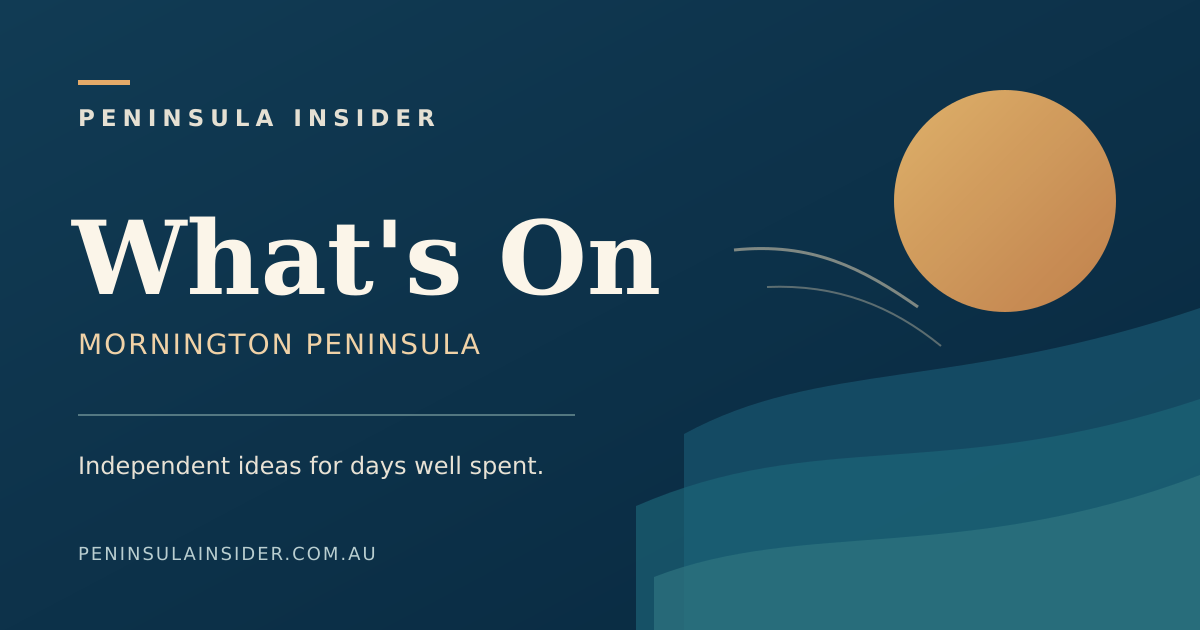
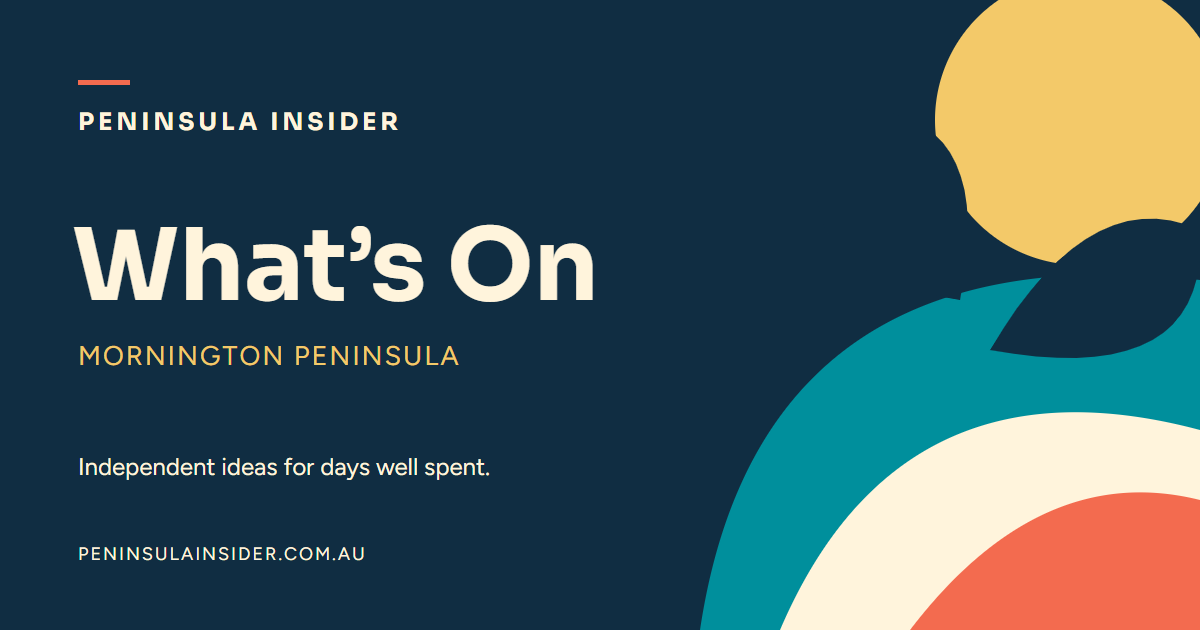
Extend Coastal Punch illustrations across editorial and event media (#645)

diff --git a/docs/COASTAL-PUNCH-ILLUSTRATIONS.md b/docs/COASTAL-PUNCH-ILLUSTRATIONS.md
@@ -1,0 +1,33 @@
+# Coastal Punch illustration language
+
+Approved by James for website rollout on 9 October 2026. Keep the existing site structure, typography, navigation and factual venue photography.
+
+## Palette and form
+
+Deep navy `#102D42`, sea teal `#008F9C`, warm ivory `#FFF4DC`, coral `#F36B4F`, sunshine yellow `#F3C969`. Use broad areas of ivory and teal, navy for graphic shadows, and coral/yellow as concentrated accents. One dominant silhouette; gently exaggerated objects; sweeping shadows; elliptical eucalyptus leaves; broad stripes and scalloped canopies. Simplify rather than add texture or small detail. No embedded lettering or logos.
+
+Create each artwork separately for its placement. Card and article masters are 3:2, with the main subject safe within a central 16:9 crop. Homepage art has its own wide composition and mobile crop. Supply alt text, conceptual captions and recorded rights metadata. Never imply an invented scene is a photograph of the named venue, event or road.
+
+## Scoring rubric (100 points)
+
+| Criterion | Points | Acceptance question |
+| --- | ---: | --- |
+| Recognition | 20 | Does it read as Peninsula Insider without a logo? |
+| Simplification | 20 | Is the main idea legible at thumbnail size, with incidental detail removed? |
+| Distinctive exaggeration | 15 | Does a memorable silhouette create emphasis without becoming surreal? |
+| Fresh palette | 15 | Are ivory/teal airy, with controlled coral/yellow punch and strong navy contrast? |
+| Placement and crop | 15 | Does the artwork work in its actual desktop/mobile dimensions? |
+| Subject and locality honesty | 10 | Does it match the topic without inventing venue details or geography? |
+| Production readiness | 5 | Are optimized media, alt text, credit, rights and social formats complete? |
+
+Target: 99/100. A target is not an achieved score. Automated tests cannot certify aesthetic quality. These first approved wider-rollout illustrations retain some shaded surfaces and landscape detail; simplification remains the main improvement for future iterations. Factual, rights, crop or accessibility failures block release irrespective of score.
+
+## Reusable generation direction
+
+Create ONE standalone editorial illustration in the Coastal Punch house style for [subject], with [placement/aspect ratio]. Use only the five palette colours above. Strong simplified graphic shapes, one gently exaggerated hero object, bold navy shadows, airy ivory space and concentrated coral/yellow accents. No photorealism, lettering, logos, fine texture or ornamental detail. Maintain a central crop-safe subject. The scene is conceptual, not a representation of a specific venue or precise geographic location. Do not generate a collage.
+
+## Provenance and scope
+
+Seven independent AI-assisted originals: gin botanicals, yoga equipment, market produce, wrestling ring, breakfast, weekend planning and first visit. Original PNG masters remain in the Codex generated-image directory; optimized website WebP assets and the source inventory are recorded in `reports/coastal-punch-wide-assets-2026-10-09.json`.
+
+The card fallback, shared event placeholder and What's On social graphic use authored SVG geometry and separately typeset text. They decorate existing media slots without simulating missing venue photographs. Keep the original artwork available for rollback. Content dates, cancellation states and editorial wording are unchanged.

diff --git a/next/src/content/articles/first-time-peninsula.md b/next/src/content/articles/first-time-peninsula.md
@@ -5,24 +5,21 @@ author: "editorial"
 houseByline: true
 publishedAt: 2026-04-10
 heroImage:
-  src: "/images/visit-victoria/vv-160358-montalto.webp"
-  alt: "A patinated metal sculpture of a figure stands on the lawn in front of the Montalto restaurant and its white umbrellas"
-  credit: "Two Palms Australia, courtesy of Visit Victoria"
-  license: "visit-victoria"
-  caption: "Montalto Vineyard & Olive Grove, Red Hill, Mornington Peninsula."
-  depicts: "Montalto"
+  src: "/images/generated/coastal-punch-first-visit.webp"
+  alt: "Conceptual coral car on a curving coastal road beside an abstract bay."
+  credit: "Illustration: Peninsula Insider"
+  license: "other-licensed"
+  caption: "AI-assisted editorial illustration. A first Peninsula visit; not a depiction of a specific road or location."
+  depicts: "Conceptual coral car on a curving coastal road beside an abstract bay."
   depictionStatus: "illustrative"
-  creator: "Two Palms Australia"
-  sourceUrl: "Victoria Content Hub asset 160358, downloaded 2026-09-28"
-  permission: "Licensed at download (2026-09-28) under the Victoria Content Hub Terms and Conditions (last modified 21 Sep 2026)."
-  permittedUses:
-    - "website"
-    - "social"
-  rightsHolder: "Visit Victoria"
-  rightsEstablishedOn: "2026-09-29"
+  creator: "Peninsula Insider, AI-assisted"
+  permission: "Original AI-assisted artwork created for Peninsula Insider; website rollout approved by James on 2026-10-09."
+  permittedUses: ["website"]
+  rightsHolder: "Peninsula Insider"
+  rightsEstablishedOn: "2026-10-09"
   rightsStatus: "recorded"
-  decorative: false
   provenanceReview: "verified"
+  decorative: false
 format: "service"
 tags: ["first-timers", "guide", "overview", "planning", "explore", "weekend"]
 relatedVenues: ["montalto", "ten-minutes-by-tractor", "merricks-general-wine-store", "commonfolk-coffee", "flinders-hotel", "hotel-sorrento", "red-hill-brewery", "alba-thermal-springs", "peninsula-hot-springs", "polperro", "lindenderry", "jackalope", "flinders-sourdough", "red-hill-cheese", "sorrento-hotel", "portsea-hotel", "main-ridge-dairy"]

diff --git a/next/src/content/articles/how-to-plan-a-peninsula-weekend.md b/next/src/content/articles/how-to-plan-a-peninsula-weekend.md
@@ -5,13 +5,21 @@ author: "editorial"
 houseByline: true
 publishedAt: 2026-04-10
 heroImage:
-  src: "/images/sourced/article-orientation-drive-01.webp"
-  alt: ""
-  depicts: "a bank of cumulus cloud over the sea, in black and white"
+  src: "/images/generated/coastal-punch-planning.webp"
+  alt: "Conceptual travellers considering an unlabelled folded map beside an abstract bay."
+  credit: "Illustration: Peninsula Insider"
+  license: "other-licensed"
+  caption: "AI-assisted editorial illustration. Weekend planning; the abstract map is not geographic or navigational."
+  depicts: "Conceptual travellers considering an unlabelled folded map beside an abstract bay."
   depictionStatus: "illustrative"
-  decorative: true
-  credit: "Peninsula Insider"
-  license: "tmp-unsplash"
+  creator: "Peninsula Insider, AI-assisted"
+  permission: "Original AI-assisted artwork created for Peninsula Insider; website rollout approved by James on 2026-10-09."
+  permittedUses: ["website"]
+  rightsHolder: "Peninsula Insider"
+  rightsEstablishedOn: "2026-10-09"
+  rightsStatus: "recorded"
+  provenanceReview: "verified"
+  decorative: false
 format: "service"
 tags: ["planning", "weekend", "guide", "accommodation", "booking", "first-timers", "couples", "family", "groups", "all-year"]
 relatedVenues: ["ten-minutes-by-tractor", "montalto", "tedesca-osteria", "merricks-general-wine-store", "lindenderry", "jackalope", "polperro-villas", "crittenden-villas", "hotel-sorrento", "flinders-hotel", "pt-leo-estate", "commonfolk-coffee", "alba-thermal-springs", "peninsula-hot-springs", "the-continental-sorrento", "rare-hare", "paringa-estate", "port-phillip-estate-restaurant", "doot-doot-doot"]

diff --git a/next/src/content/articles/breakfast-before-the-crowds.md b/next/src/content/articles/breakfast-before-the-crowds.md
@@ -5,12 +5,21 @@ author: "editorial"
 houseByline: true
 publishedAt: 2026-04-09
 heroImage:
-  src: "/images/sourced/category-cafe-01.webp"
-  alt: "The interior of a cafe, with chalkboard menus above the counter, a barista at the espresso machine and rattan chairs around low tables."
-  depicts: "the interior of a cafe, with chalkboard menus and rattan chairs"
+  src: "/images/generated/coastal-punch-breakfast.webp"
+  alt: "Conceptual oversized coffee cup and croissant beside an abstract bay."
+  credit: "Illustration: Peninsula Insider"
+  license: "other-licensed"
+  caption: "AI-assisted editorial illustration. A Peninsula morning; not a depiction of a named cafe or its menu."
+  depicts: "Conceptual oversized coffee cup and croissant beside an abstract bay."
   depictionStatus: "illustrative"
-  credit: "Peninsula Insider"
-  license: "tmp-unsplash"
+  creator: "Peninsula Insider, AI-assisted"
+  permission: "Original AI-assisted artwork created for Peninsula Insider; website rollout approved by James on 2026-10-09."
+  permittedUses: ["website"]
+  rightsHolder: "Peninsula Insider"
+  rightsEstablishedOn: "2026-10-09"
+  rightsStatus: "recorded"
+  provenanceReview: "verified"
+  decorative: false
 format: "insider-edit"
 tags: ["eat", "coffee", "breakfast", "bakery", "mornington", "flinders", "sorrento", "red-hill"]
 relatedVenues:
